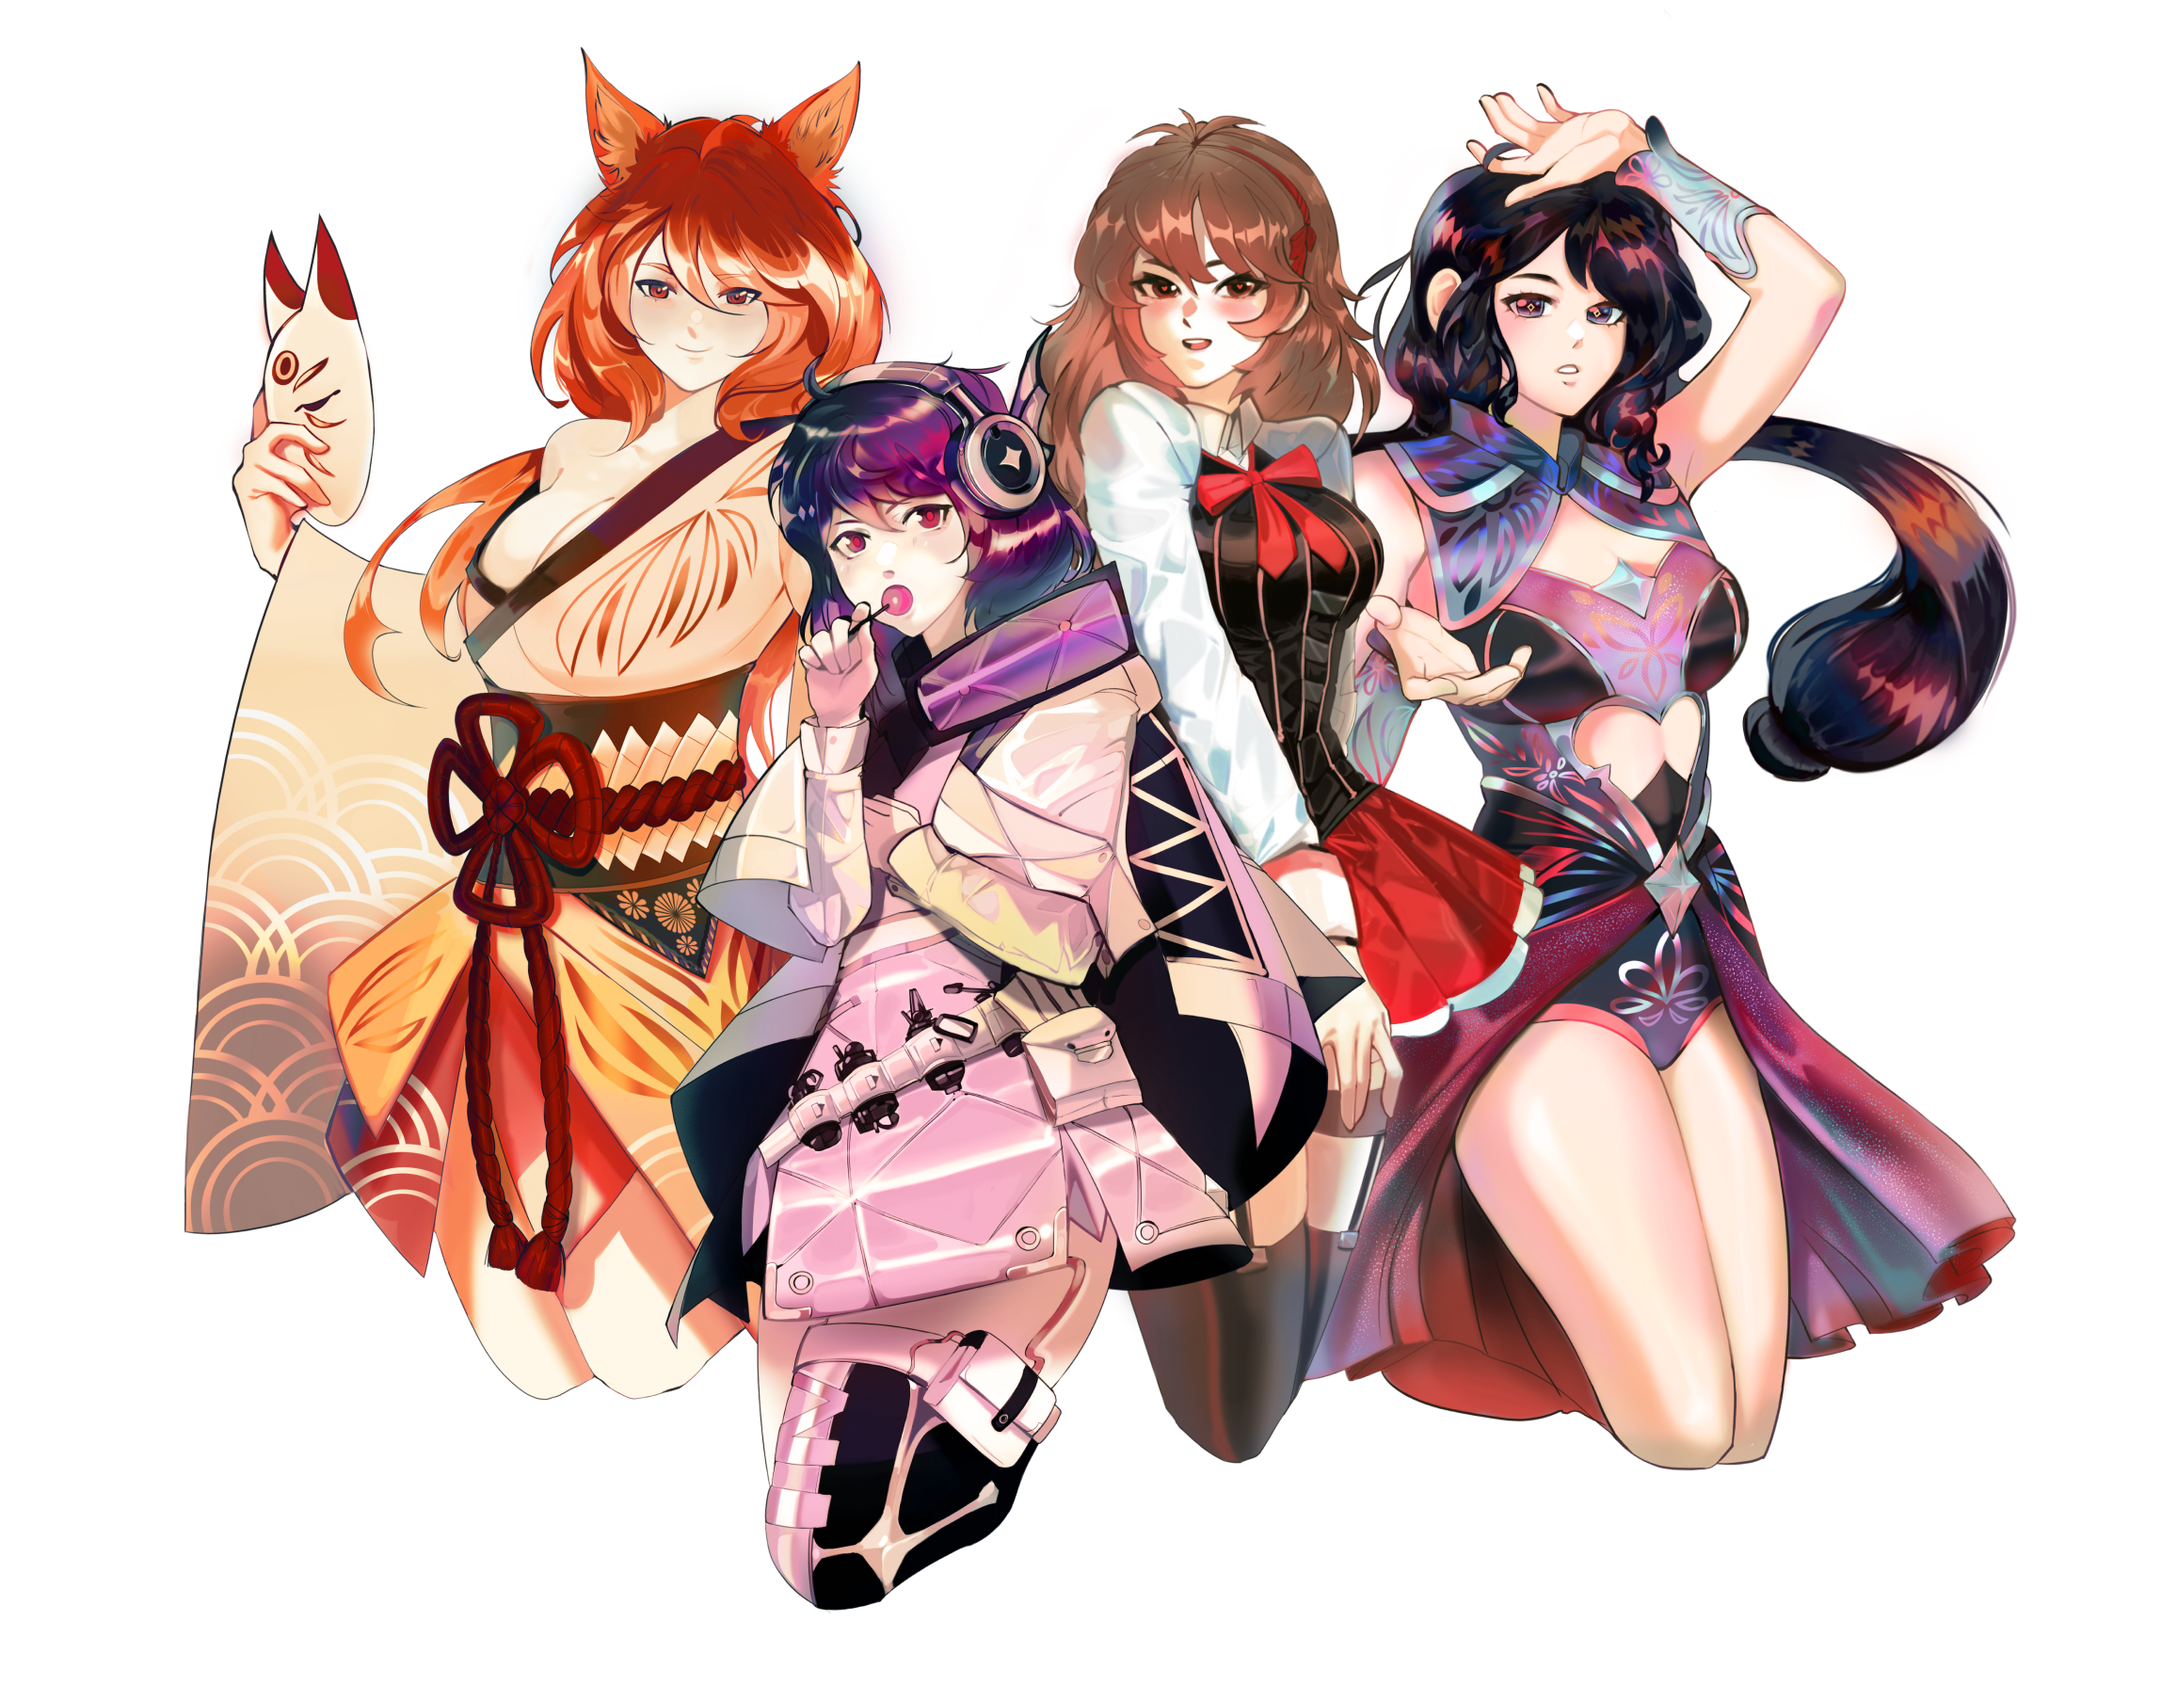
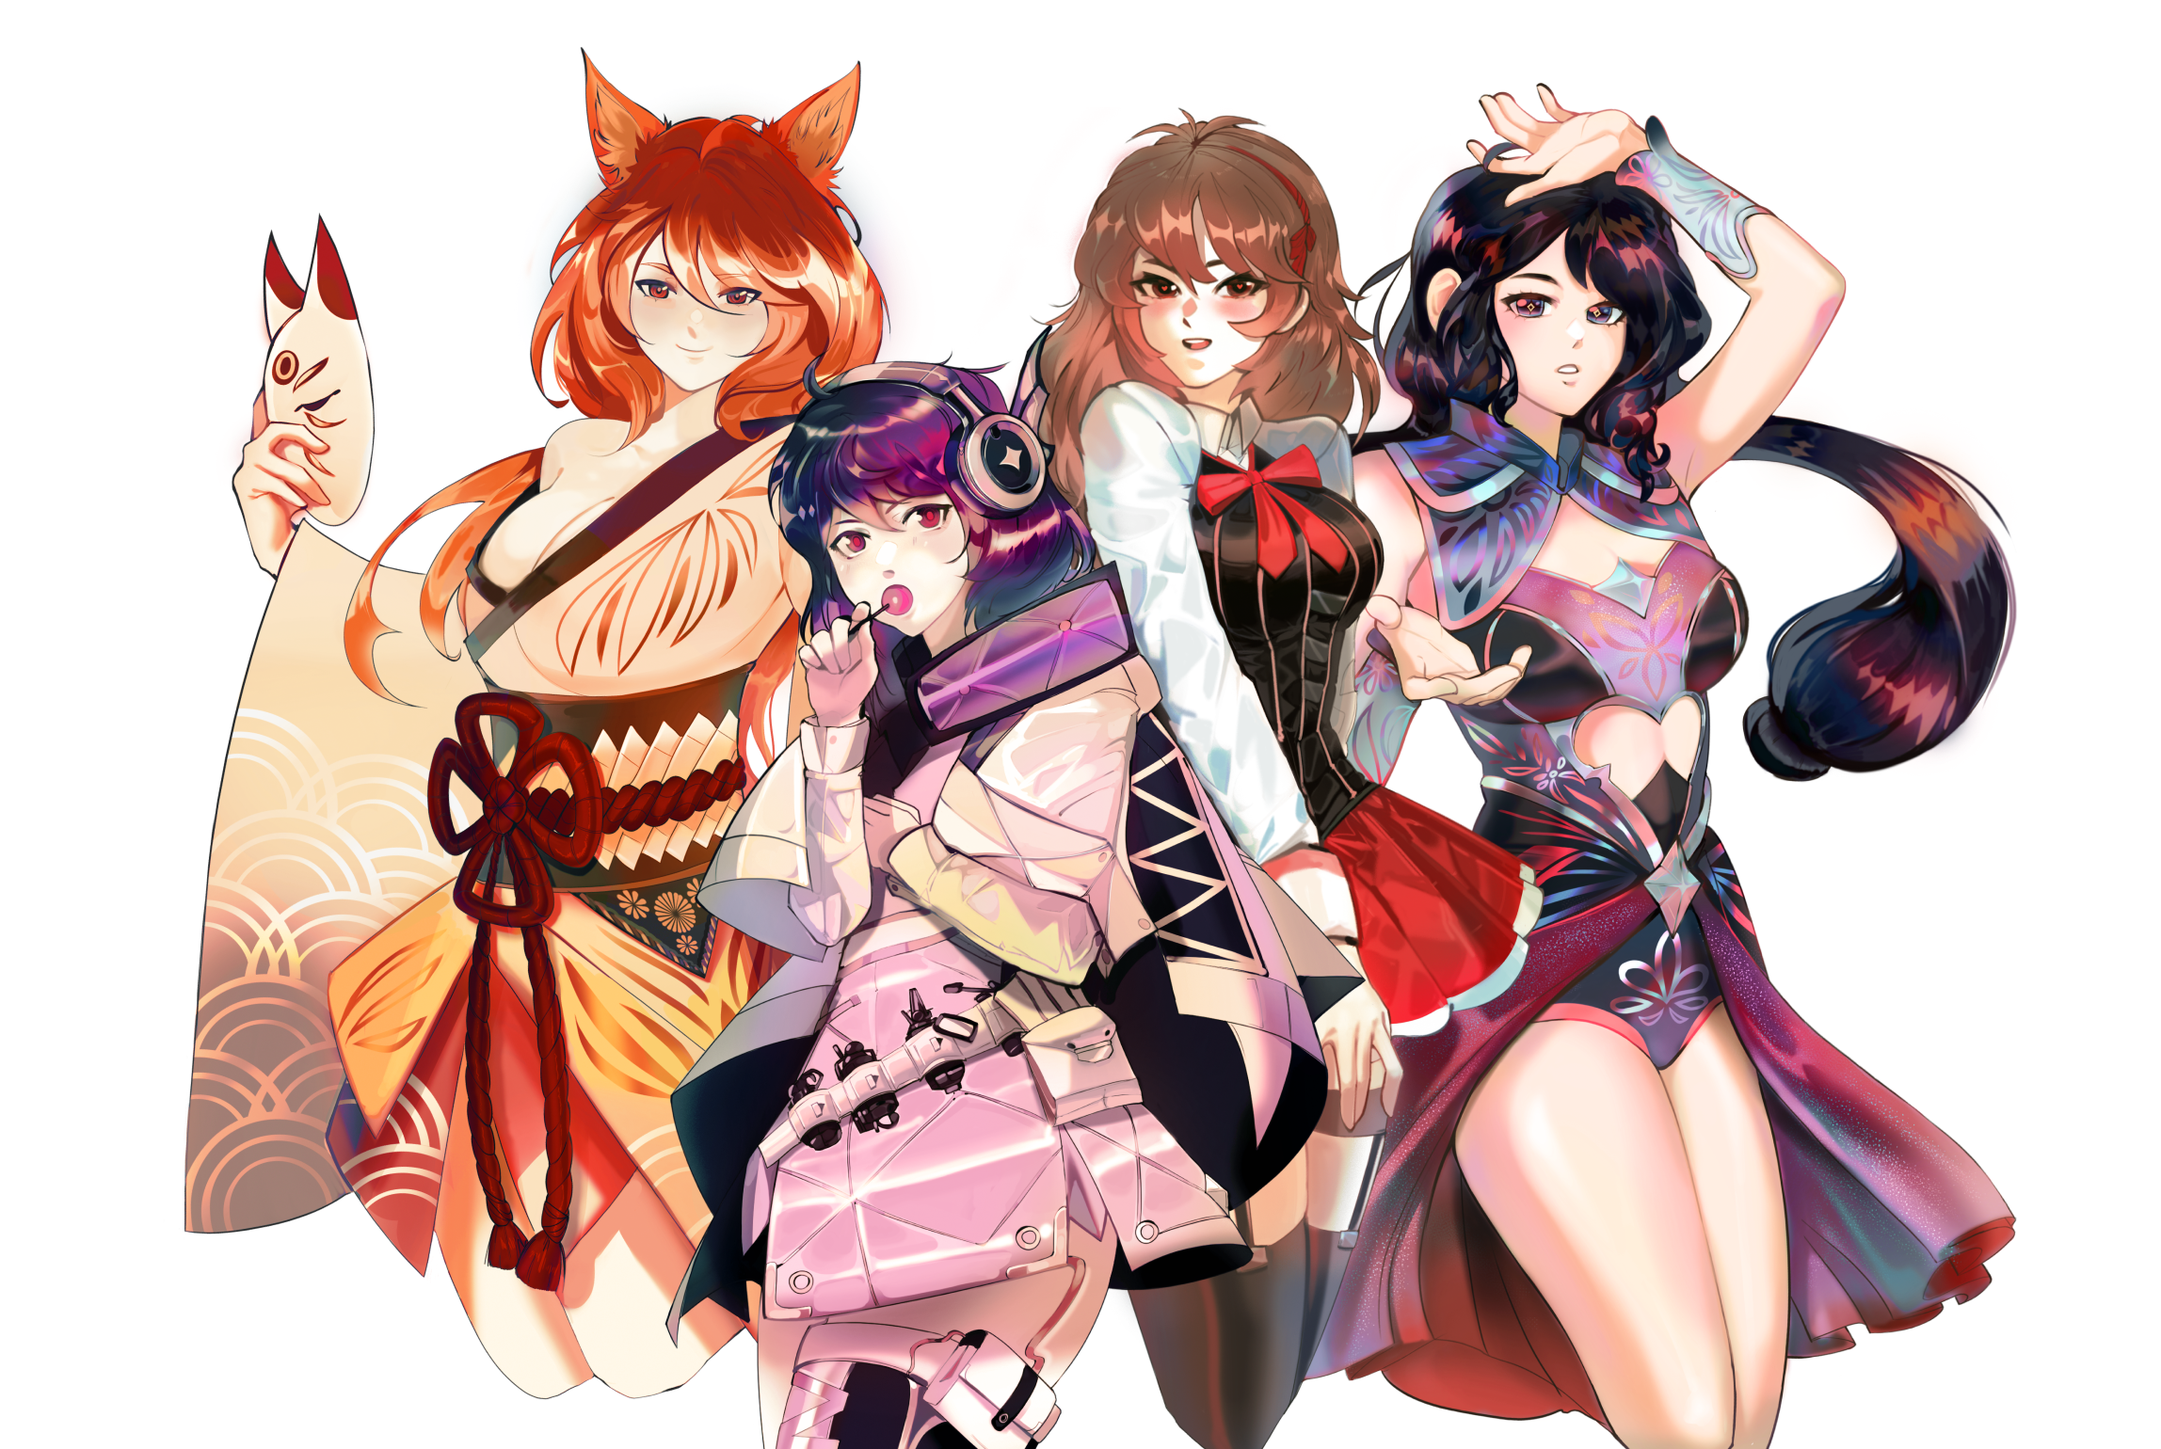
fix: hero image

diff --git a/components/hero/index.tsx b/components/hero/index.tsx
@@ -1,3 +1,4 @@
+/* eslint-disable @next/next/no-img-element */
 import React from 'react'
 import classNames from 'classnames'
 import s from './styles.module.scss'
@@ -12,11 +13,9 @@ const Hero: React.FC<Props> = ({ className }) => {
   return (
     <section className={classNames(className, s.section)}>
       <div className={s.characters}>
-        <Image
+        <img
           className={s.charactersImg}
-          objectFit="contain"
-          layout="fill"
-          src={'/images/characters.png'}
+          src={'images/characters.png'}
           alt="characters"
         />
       </div>

diff --git a/components/hero/styles.module.scss b/components/hero/styles.module.scss
@@ -22,8 +22,16 @@
   height: 100%;
 }
 
-.characters span{
-  bottom: -250px !important;
+.charactersImg {
+  position: absolute;
+  left: 50%;
+  transform: translateX(-50%);
+  width: 100%;
+  height: 100%;
+  height: calc(100vh + 110px);
+  bottom: -110px;
+
+  object-fit: contain;
 }
 
 .content {
